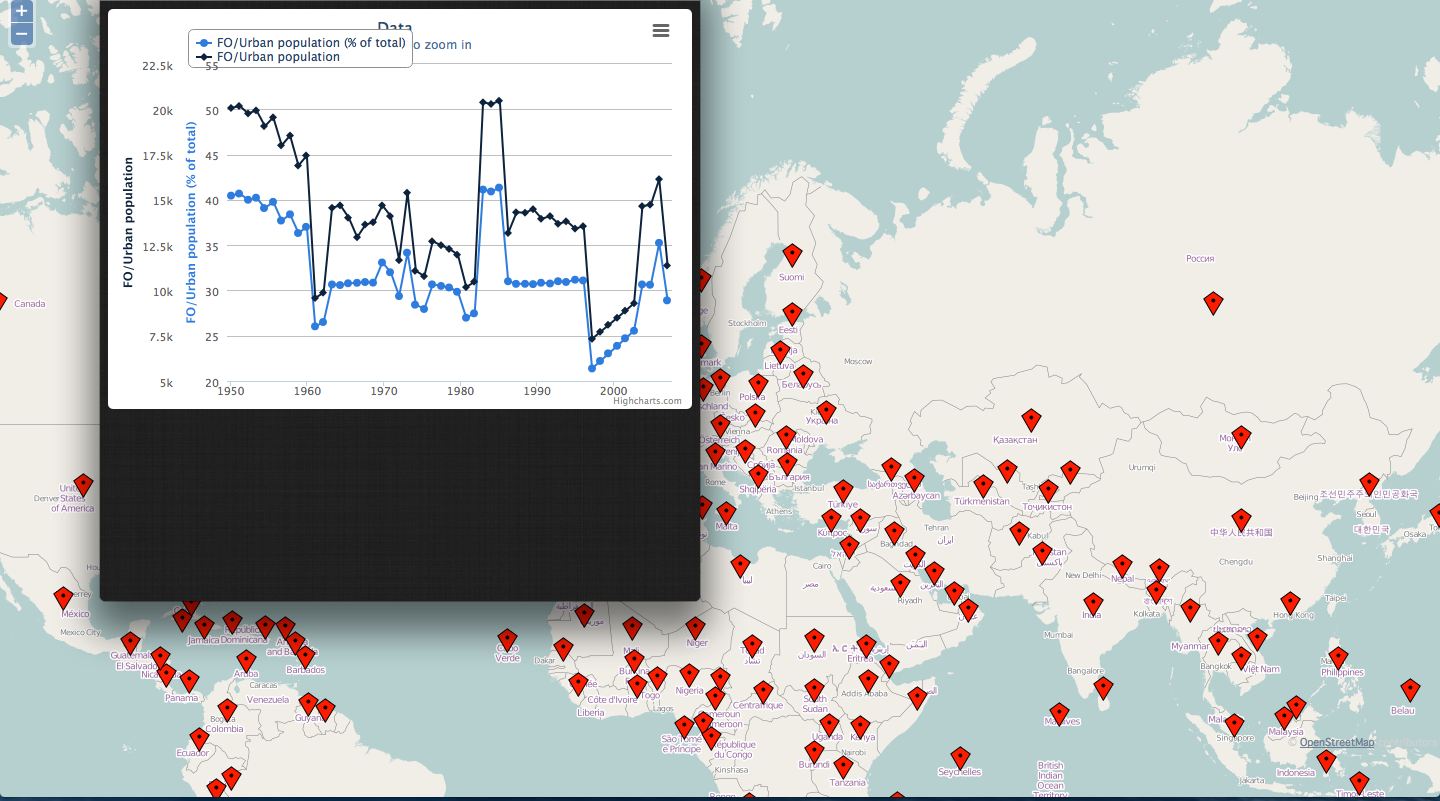
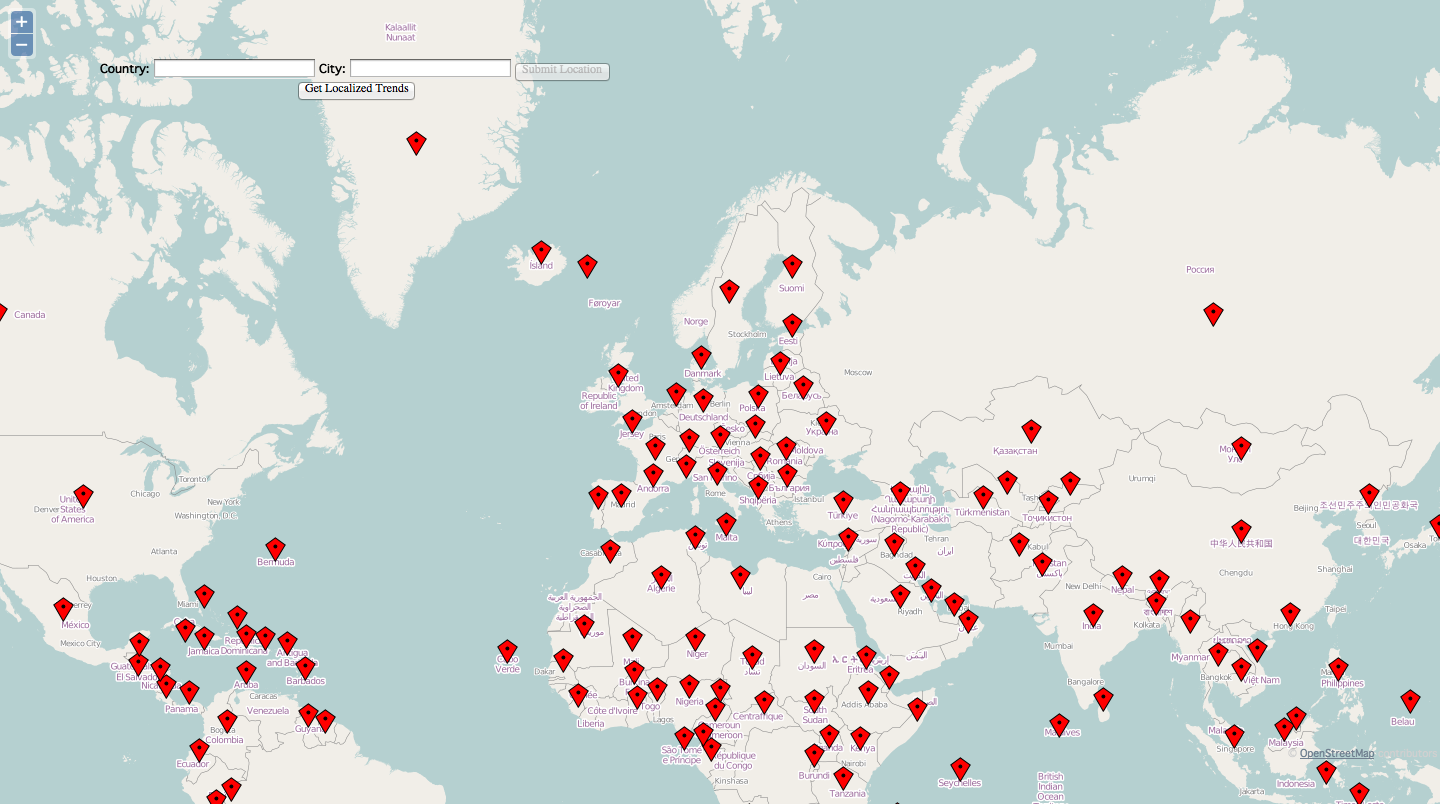
Updated and made OSM default

diff --git a/src/server/detanglement/detanglement/templates/datavis/index_base.html b/src/server/detanglement/detanglement/templates/datavis/index_base.html
@@ -11,17 +11,9 @@
         <script src="{% static 'javascript/modernizr.js'%}"></script>
         <script src="{% static 'javascript/jquery-1.10.2.min.js'%}"></script>
         <script src="{% static 'javascript/toastr/toastr.js' %}"></script>
-        <script src="{%static 'javascript/navStartup.js' %}"></script>
-
-        <script type="text/javascript">
-            Modernizr.load({
-                test: Modernizr.svg && Modernizr.inlinesvg,
-                yep : [ //"javascript/kartograph.js",
-                        "https://www.openlayers.org/api/OpenLayers.js",
-                        "{% static 'javascript/mapAndStartup.js'%}"],
-                        fails : ["{% static 'javascript/nope.js'%}"] 
-            });
-        </script>
+        <script src="{% static 'javascript/navStartup.js' %}"></script>
+        <script src="{% static 'javascript/OpenLayers.js' %}"></script>
+        <script src="{% static 'javascript/mapAndStartup.js'%}"></script>
 
 {% block extrahead %}{% endblock %}
 {% block blockbots %}<meta name="robots" content="NONE,NOARCHIVE" />{% endblock %}

diff --git a/src/server/detanglement/static/javascript/mapAndStartup.js b/src/server/detanglement/static/javascript/mapAndStartup.js
@@ -12,12 +12,11 @@ tangle.kartographMarkers = [];
 tangle.googleMarkerNames = [];
 tangle.osmMarkerNames = [];
 tangle.kartographMarkerNames = [];
-tangle.mapchoice = 0;
+tangle.mapchoice = 2;
 tangle.loc = [];
-load();
+window.onload = load;
 
 toastr.options.closeButton = true;
-checkButtonDisplay();
 window.onresize = load;
 
 //Startup function; checks whether the button should be disabled
@@ -30,6 +29,7 @@ function load(){
     }else if(tangle.mapchoice === 2){
         initializeOSM();
     }
+    checkButtonDisplay();
 };
 
 //Gets the currently used map.
